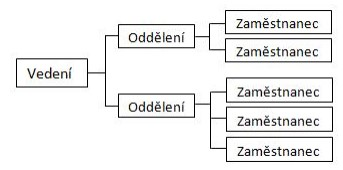
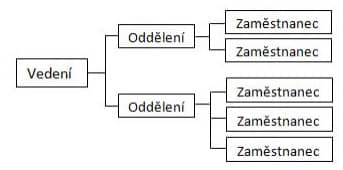
komprese obrazku

diff --git a/README.md b/README.md
@@ -62,10 +62,10 @@
         -   [x] -   Upravit **_code_**
 -   [x] 20 - David
 -   [x] 21 - Kuba
-    -   [ ] - Kuba - komprese obrázků na [compress.io](https://compressor.io/)
+    -   [x] - Kuba - komprese obrázků na [compress.io](https://compressor.io/)
 -   [ ] 22 - David
 -   [x] 23 - Kuba
-    -   [ ] - Kuba - obrázky - [compress.io](https://compressor.io/)
+    -   [x] - Kuba - obrázky - [compress.io](https://compressor.io/)
 -   [ ] 24 - David
 -   [x] 25 - Kuba
 
